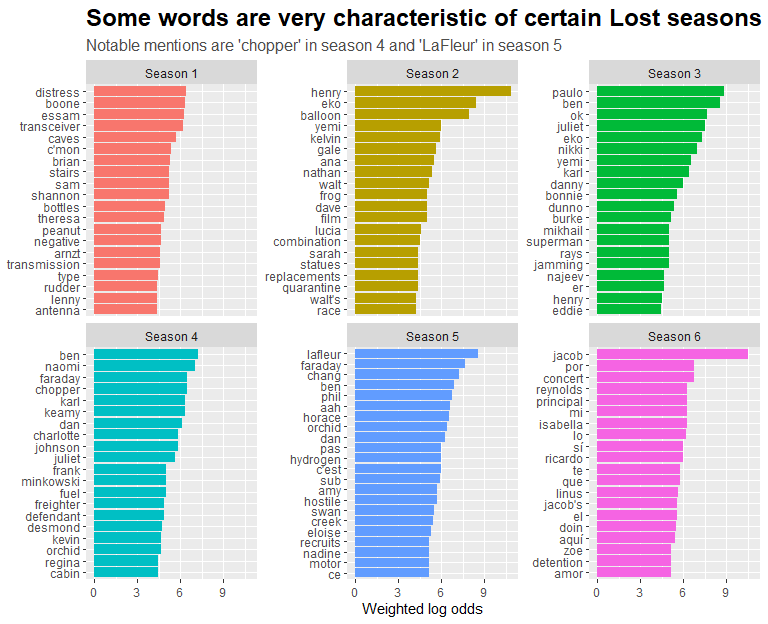
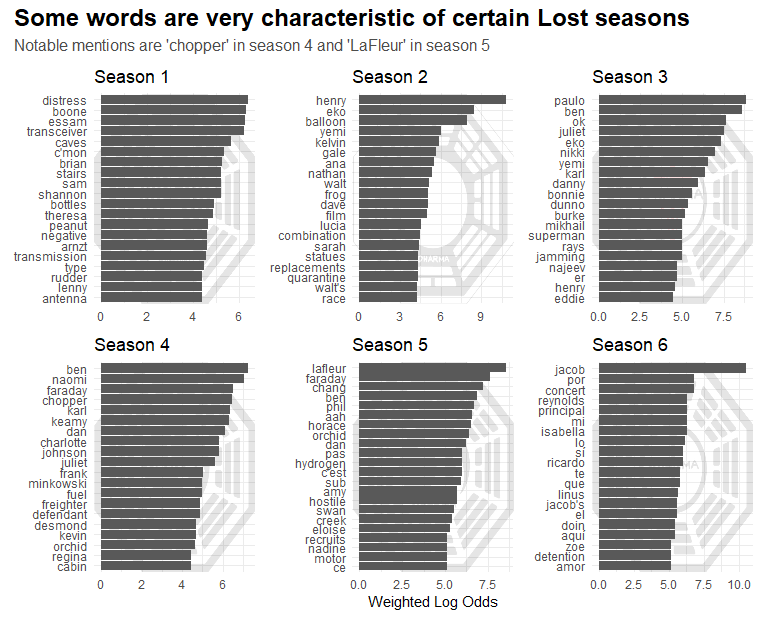
add custom lost theme to plot 4

diff --git a/README.md b/README.md
@@ -9,6 +9,7 @@ library(ggimage)
 library(jpeg)
 library(grid)
 library(patchwork)
+library(tidylo)
 ```
 
 ``` r
@@ -61,11 +62,11 @@ lost %>%
 ### Which characters have the most lines per season?
 
 ``` r
-plot_top_lines <- function(tbl, season_n, bg_img, x_label = NULL){
+plot_top_lines <- function(tbl, x, y, season_n, bg_img, x_label = NULL){
     tbl %>%
         filter(season == glue("Season {season_n}")) %>%
-        mutate(character = fct_reorder(character, n)) %>%
-        ggplot(aes(n, character)) +
+        mutate({{y}} := fct_reorder({{y}}, {{x}})) %>%
+        ggplot(aes({{x}}, {{y}})) +
         annotation_custom(rasterGrob(readPNG(bg_img),
                                      width = unit(1, "npc"),
                                      height = unit(1, "npc")),
@@ -85,12 +86,12 @@ plot_2_data <- lost %>%
     mutate(character = if_else(character == "Christian Shephard", "Christian", character)) %>%
     mutate(season = glue("Season {season}"))
 
-plot_top_lines(plot_2_data, 1, "images/the_arrow_alpha_10.png") + 
-    plot_top_lines(plot_2_data, 2, "images/the_flame_alpha_10.png") +
-    plot_top_lines(plot_2_data, 3, "images/the_hydra_alpha_10.png") +
-    plot_top_lines(plot_2_data, 4, "images/the_lamp_post_alpha_10.png") +
-    plot_top_lines(plot_2_data, 5, "images/the_looking_glass_alpha_10.png", "Lines") +
-    plot_top_lines(plot_2_data, 6, "images/the_orchid_alpha_10.png") +
+plot_top_lines(plot_2_data, n, character, 1, "images/the_arrow_alpha_10.png") + 
+    plot_top_lines(plot_2_data, n, character, 2, "images/the_flame_alpha_10.png") +
+    plot_top_lines(plot_2_data, n, character, 3, "images/the_hydra_alpha_10.png") +
+    plot_top_lines(plot_2_data, n, character, 4, "images/the_lamp_post_alpha_10.png") +
+    plot_top_lines(plot_2_data, n, character, 5, "images/the_looking_glass_alpha_10.png", "Lines") +
+    plot_top_lines(plot_2_data, n, character, 6, "images/the_orchid_alpha_10.png") +
     plot_annotation(title = "Jack has the most lines for all seasons except season 5",
                     subtitle = "The top 20 characters for each season are shown")
 ```
@@ -145,26 +146,23 @@ lost %>%
 ### Which words are most characteristic of each Lost season?
 
 ``` r
-library(tidylo)
-
-lost %>%
+plot_4_data <- lost %>%
     unnest_tokens(word, line) %>%
     count(season, word, sort = TRUE) %>%
     bind_log_odds(season, word, n) %>%
     group_by(season) %>%
     slice_max(log_odds_weighted, n = 20) %>%
     ungroup() %>%
-    mutate(word = reorder_within(word, log_odds_weighted, season)) %>%
-    mutate(season = glue("Season {season}")) %>%
-    ggplot(aes(log_odds_weighted, word, fill = factor(season))) +
-    geom_col() +
-    facet_wrap(~season, scales = "free_y") +
-    scale_y_reordered() +
-    theme(legend.position = "none") +
-    labs(x = "Weighted log odds",
-         y = NULL,
-         title = "Some words are very characteristic of certain Lost seasons",
-         subtitle = "Notable mentions are 'chopper' in season 4 and 'LaFleur' in season 5")
+    mutate(season = glue("Season {season}"))
+
+plot_top_lines(plot_4_data, log_odds_weighted, word, 1, "images/the_orchid_alpha_10.png") + 
+    plot_top_lines(plot_4_data, log_odds_weighted, word, 2, "images/the_pearl_alpha_10.png") +
+    plot_top_lines(plot_4_data, log_odds_weighted, word, 3, "images/the_staff_alpha_10.png") +
+    plot_top_lines(plot_4_data, log_odds_weighted, word, 4, "images/the_swam_alpha_10.png") +
+    plot_top_lines(plot_4_data, log_odds_weighted, word, 5, "images/the_tempest_alpha_10.png", "Weighted Log Odds") +
+    plot_top_lines(plot_4_data, log_odds_weighted, word, 6, "images/the_arrow_alpha_10.png") +
+    plot_annotation(title = "Some words are very characteristic of certain Lost seasons",
+                    subtitle = "Notable mentions are 'chopper' in season 4 and 'LaFleur' in season 5")
 ```
 
 ![](README_files/figure-markdown_github/unnamed-chunk-7-1.png)
